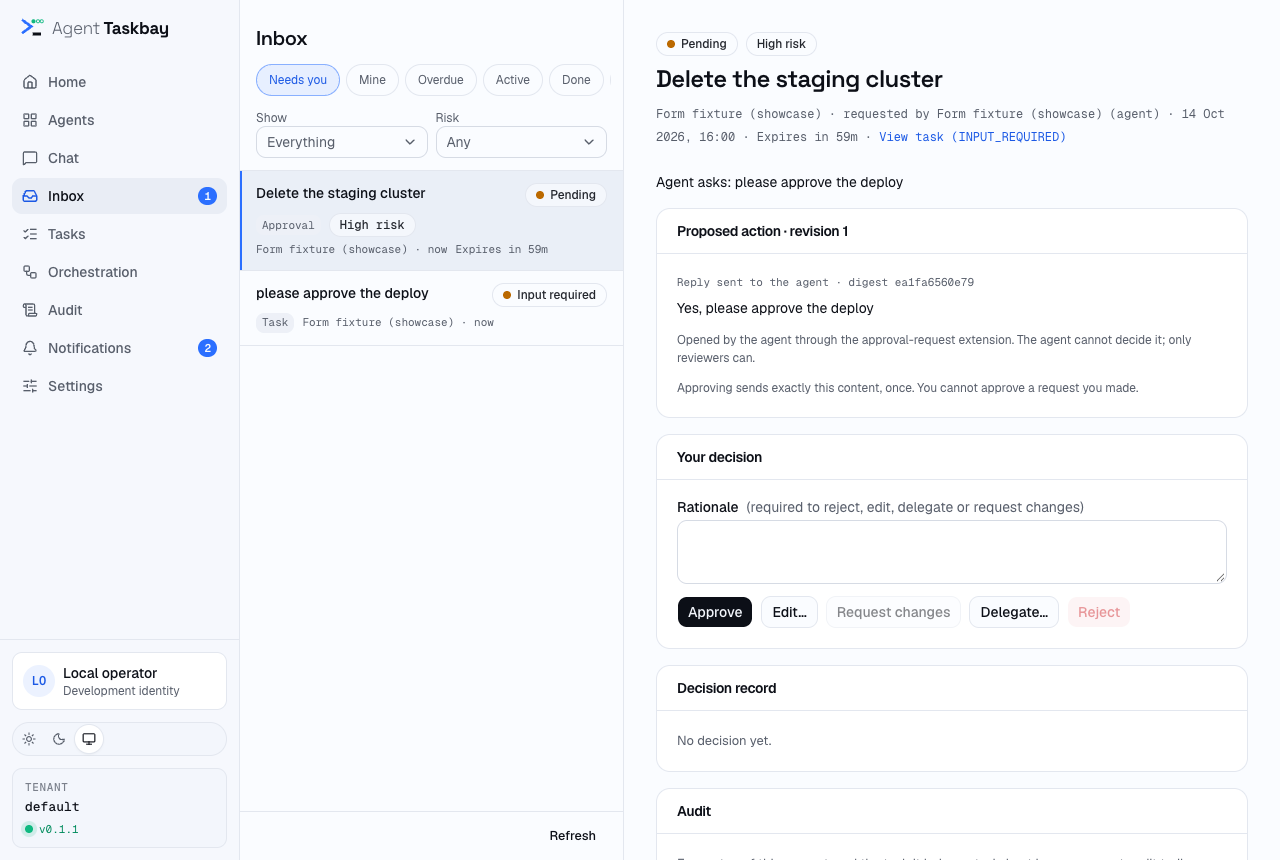
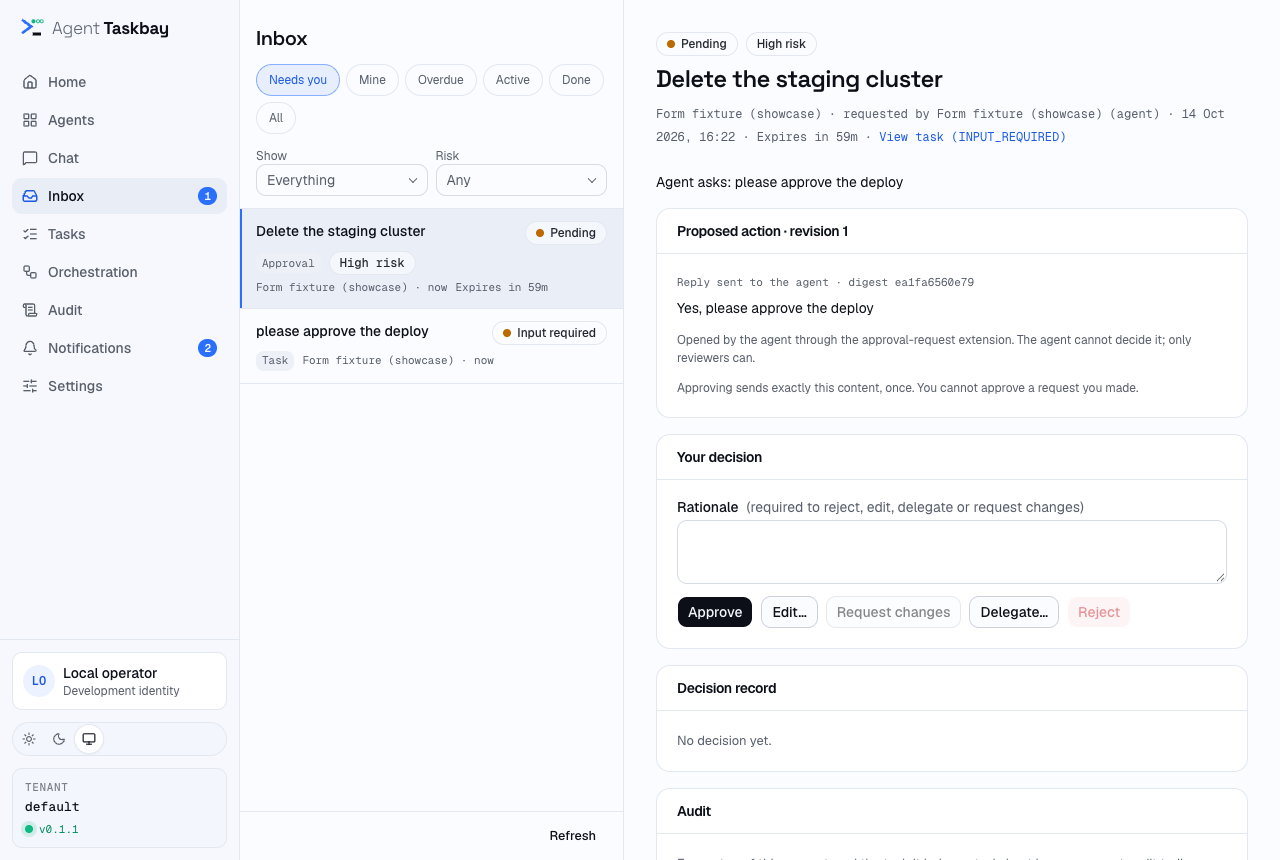
Polish: stronger outline buttons, wrapping filter chips, ordered progress logs and tab bar badges.
Retook the screenshots so they match.

diff --git a/src/components/chat/chat-view.tsx b/src/components/chat/chat-view.tsx
@@ -248,8 +248,14 @@ export function ChatView({ conversationKey: initialKey, agentId: initialAgentId 
               // In-between status updates fold into one progress log; the last message, questions and results stay prominent.
               const lastIndex = task.messages.length - 1;
               const isUpdate = (message: ThreadMessage, index: number) => task.kind !== "message" && message.role === "agent" && Boolean(message.fromStatus) && index !== lastIndex;
-              const updates = task.messages.filter(isUpdate);
-              const firstUpdate = task.messages.findIndex(isUpdate);
+              // Each run of consecutive updates becomes its own log, so the conversation keeps its order.
+              const runs = new Map<number, ThreadMessage[]>();
+              task.messages.forEach((message, index) => {
+                if (!isUpdate(message, index)) return;
+                const startsRun = index === 0 || !isUpdate(task.messages[index - 1], index - 1);
+                if (startsRun) runs.set(index, [message]);
+                else for (const [start, list] of runs) if (start + list.length === index) list.push(message);
+              });
               const rows = task.messages.flatMap((message, index) => [
                 ...(isUpdate(message, index) ? [] : [
                   message.role === "user" ? (
@@ -261,7 +267,7 @@ export function ChatView({ conversationKey: initialKey, agentId: initialAgentId 
                   ),
                 ]),
                 ...(index === cardAt ? [<TaskCard key={`card-${task.taskId}`} task={task} canceling={cancelingId === task.taskId} onCancel={() => void cancelTask(task)} />] : []),
-                ...(index === firstUpdate ? [<ProgressLog key={`log-${task.taskId}`} messages={updates} active={isOpenTask(task)} />] : []),
+                ...(runs.has(index) ? [<ProgressLog key={`log-${message.id}`} messages={runs.get(index)!} active={isOpenTask(task)} />] : []),
               ]);
               return (
                 <div key={task.taskId} className="flex flex-col gap-3.5">

diff --git a/src/components/app-shell.tsx b/src/components/app-shell.tsx
@@ -95,11 +95,11 @@ export function AppShell({ children, identity }: { children: React.ReactNode;
   const tenant = agents.find((agent) => agent.view?.tenant)?.view?.tenant ?? "default";
 
   const badgeFor = (href: string) => (href === "/notifications" ? unread : href === "/inbox" ? pending : 0);
-  const tabs: TabBarItem[] = [
-    ...nav.filter((item) => PRIMARY_TABS.has(item.href)).map((item) => ({ title: item.short, href: item.href, icon: item.icon })),
-    { title: "More", icon: MoreHorizontal, onSelect: () => setMoreOpen(true) },
-  ];
   const moreItems = nav.filter((item) => !PRIMARY_TABS.has(item.href));
+  const tabs: TabBarItem[] = [
+    ...nav.filter((item) => PRIMARY_TABS.has(item.href)).map((item) => ({ title: item.short, href: item.href, icon: item.icon, badge: badgeFor(item.href) || undefined })),
+    { title: "More", icon: MoreHorizontal, onSelect: () => setMoreOpen(true), badge: moreItems.reduce((sum, item) => sum + badgeFor(item.href), 0) > 0 ? true : undefined },
+  ];
 
   return (
     <div className="bg-background text-foreground flex min-h-dvh md:h-dvh md:overflow-hidden">
@@ -161,17 +161,6 @@ export function AppShell({ children, identity }: { children: React.ReactNode;
         <MobileTopBar
           homeHref={"/" as Route}
           parentOf={parentOf}
-          trailing={
-            (unread > 0 || pending > 0) && (
-              <Link
-                href={(pending > 0 ? "/inbox" : "/notifications") as Route}
-                className="bg-brand-soft text-brand-text inline-flex h-7 items-center rounded-full px-2.5 font-mono text-xs font-semibold tabular-nums"
-                aria-label={pending > 0 ? `${pending} pending approvals` : `${unread} unread notifications`}
-              >
-                {pending > 0 ? pending : unreadLabel(unread)}
-              </Link>
-            )
-          }
         />
 
         <main className="flex min-w-0 flex-1 flex-col md:min-h-0">

diff --git a/src/components/navigation/tab-bar.tsx b/src/components/navigation/tab-bar.tsx
@@ -7,7 +7,10 @@ import { cn } from "@/lib/utils"
 
 import { isActive, type NavItem } from "@/lib/navigation"
 
-export type TabBarItem = NavItem | { title: string; icon: NavItem["icon"]; onSelect: () => void; href?: undefined }
+export type TabBarItem = (NavItem | { title: string; icon: NavItem["icon"]; onSelect: () => void; href?: undefined }) & {
+  /** A count (or `true` for a dot) shown on the icon, for unread or pending items. */
+  badge?: number | boolean
+}
 
 /**
  * Native-style bottom tab bar for phones. Shared by the public site and the
@@ -41,11 +44,22 @@ function Tabs({ items, pathname }: { items: TabBarItem[]; pathname: string | nul
           <>
             <span
               className={cn(
-                "flex h-7 w-14 items-center justify-center rounded-full transition-colors duration-200",
+                "relative flex h-7 w-14 items-center justify-center rounded-full transition-colors duration-200",
                 active && "bg-muted"
               )}
             >
               <item.icon className={cn("size-[19px] transition-transform", active && "scale-105")} strokeWidth={active ? 2.25 : 2} />
+              {item.badge ? (
+                <span
+                  className={cn(
+                    "absolute top-0.5 right-3 flex items-center justify-center rounded-full bg-brand font-mono text-[10px] leading-none font-semibold text-brand-foreground",
+                    item.badge === true ? "size-2" : "h-4 min-w-4 px-1"
+                  )}
+                  aria-label={typeof item.badge === "number" ? `${item.badge} new` : "New"}
+                >
+                  {typeof item.badge === "number" ? (item.badge > 99 ? "99+" : item.badge) : null}
+                </span>
+              ) : null}
             </span>
             <span className={cn("text-[11px] leading-none", active ? "font-medium text-foreground" : "")}>{item.title}</span>
           </>

diff --git a/src/components/ui/button.tsx b/src/components/ui/button.tsx
@@ -9,7 +9,7 @@ const buttonVariants = cva(
       variant: {
         default: "bg-primary text-primary-foreground hover:bg-primary/80",
         outline:
-          "border-border bg-background hover:bg-muted hover:text-foreground aria-expanded:bg-muted aria-expanded:text-foreground dark:border-input dark:bg-input/30 dark:hover:bg-input/50",
+          "border-border-strong bg-background hover:bg-muted hover:text-foreground aria-expanded:bg-muted aria-expanded:text-foreground dark:border-input dark:bg-input/30 dark:hover:bg-input/50",
         secondary:
           "bg-secondary text-secondary-foreground hover:bg-[color-mix(in_oklch,var(--secondary),var(--foreground)_5%)] aria-expanded:bg-secondary aria-expanded:text-secondary-foreground",
         ghost:

diff --git a/src/app/inbox/layout.tsx b/src/app/inbox/layout.tsx
@@ -69,6 +69,7 @@ function InboxShell({ children }: { children: React.ReactNode }) {
           controls={
             <div className="space-y-3">
               <FilterChips
+                className="md:flex-wrap md:overflow-x-visible"
                 label="Inbox view"
                 options={VIEWS.map((candidate) => ({ value: candidate.id, label: candidate.label }))}
                 value={[view]}

diff --git a/src/app/approvals/layout.tsx b/src/app/approvals/layout.tsx
@@ -35,6 +35,7 @@ export default function ApprovalsLayout({ children }: { children: React.ReactNod
           title="Approvals"
           controls={
             <FilterChips
+              className="md:flex-wrap md:overflow-x-visible"
               label="Filter approvals"
               options={FILTER_NAMES.map((name) => ({ value: name, label: name }))}
               value={[filter]}

diff --git a/src/app/tasks/layout.tsx b/src/app/tasks/layout.tsx
@@ -41,6 +41,7 @@ export default function TasksLayout({ children }: { children: React.ReactNode })
           title="Tasks"
           controls={
             <FilterChips
+              className="md:flex-wrap md:overflow-x-visible"
               label="Filter tasks"
               options={FILTER_NAMES.map((name) => ({ value: name, label: name }))}
               value={[filter]}

diff --git a/docs/guides/use-the-console.md b/docs/guides/use-the-console.md
@@ -22,7 +22,7 @@ The console is the web app you open in the browser. The sidebar lists its screen
 
 ## The sidebar
 
-On a medium screen the sidebar shrinks to an icon rail; from a large screen it shows labels. The sidebar items are **Home**, **Agents**, **Chat**, **Inbox**, **Tasks**, **Orchestration**, **Audit**, **Notifications** and **Settings**. **Audit** only appears for administrators. On a phone the bottom bar shows **Home**, **Chat**, **Inbox** and **Tasks**, plus a **More** tab that opens a sheet with the rest (**Agents**, **Orchestration**, **Audit** for administrators, **Notifications** and **Settings**), your identity menu and the theme switch. A count of pending approvals or unread notifications sits in the top bar.
+On a medium screen the sidebar shrinks to an icon rail; from a large screen it shows labels. The sidebar items are **Home**, **Agents**, **Chat**, **Inbox**, **Tasks**, **Orchestration**, **Audit**, **Notifications** and **Settings**. **Audit** only appears for administrators. On a phone the bottom bar shows **Home**, **Chat**, **Inbox** and **Tasks**, plus a **More** tab that opens a sheet with the rest (**Agents**, **Orchestration**, **Audit** for administrators, **Notifications** and **Settings**), your identity menu and the theme switch. The **Inbox** tab shows a count of pending approvals, and **More** shows a dot when there are unread notifications.
 
 **Inbox** shows a badge with the number of pending approvals. **Notifications** shows your unread count (shown as "99+" above 99). The bottom of the sidebar shows your identity menu, a **Light** / **System** / **Dark** theme switch, the tenant of the first agent that reports one, and the version of Agent Taskbay that is running (the package version, for example `v0.1.1`).
 

diff --git a/CHANGELOG.md b/CHANGELOG.md
@@ -11,6 +11,7 @@ the project uses [semantic versioning](https://semver.org/) once it reaches 1.0;
 
 ### Changed
 
+- Outline buttons have a stronger border, filter chips in list panes wrap instead of scrolling sideways on wide screens, the progress log keeps its place in the conversation, and the phone tab bar shows counts as badges.
 - Refreshed the screenshots in the README and the console guide for the new design.
 
 - The console moved to the http2xx design system: new tokens, light and dark themes, Base UI components, Geist and Space Grotesk type, every screen rebuilt on shared page and list-and-detail layouts, and responsive navigation (a sidebar, an icon rail on medium screens, and a bottom tab bar with a More sheet on phones). In chat, the agent's in-between status updates fold into a Progress log and artifacts show as a highlighted Result card. The sidebar shows the running package version. No API or data changed.
